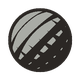
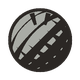
feat(roots): Wave 2 legibility remediation (RA-6, RA-7, RA-8)
- RA-6: a permanent, quiet resting ring per orb (var(--anchor), 1px, 0.28,
  radius+4, static) so nodes read as interactive at rest. T94's shipped
  first-timer caption is untouched (it's the one-time teach; this is the
  persistent cue).
- RA-7: colourblind-safe non-colour state channel — an engraved notch baked
  into the orb sprites (understood smooth, attention one cut, changed a
  double-V); greyscale-distinguishable. Asset-only (orb_attention/changed.png).
- RA-8: a quiet domain legend under the tiles (Structure . Scheduling . Time
  . Resources . Context) sourced from DOMAIN_LABELS, so the map is learnable
  without per-orb hover.

Verified live: legend + rings read at real scale, calm preserved.

Changed region(s): [[0.35, 0.15, 0.475, 0.325], [0.55, 0.15, 0.65, 0.325]]

diff --git a/src/components/reconciliation/RootMap.test.jsx b/src/components/reconciliation/RootMap.test.jsx
@@ -2,6 +2,7 @@
 import { describe, it, expect, afterEach, beforeEach, vi } from 'vitest'
 import { render, screen, fireEvent, act } from '@testing-library/react'
 import RootMap from './RootMap.jsx'
+import { DOMAIN_LABELS } from './domainRollup.js'
 
 // Design-polish finding 3: the canvas node must show a visible caption
 // (not just aria-label) when selected — asserted via a selected node so
@@ -38,6 +39,46 @@ describe('RootMap node label', () => {
       />,
     )
     expect(screen.getByText('Resources')).toBeTruthy()
+  })
+})
+
+// RA-6: a quiet always-on resting ring on every orb (interactive affordance
+// at rest, independent of hover/selection state).
+describe('RootMap resting interactivity ring (RA-6)', () => {
+  it('renders an always-on ring per node', () => {
+    const { container } = render(
+      <RootMap
+        model={model()}
+        selection={{ type: 'none' }}
+        onSelectTile={noop}
+        onSelectNode={noop}
+        onClearSelection={noop}
+      />,
+    )
+    const rings = [...container.querySelectorAll('circle[stroke="var(--anchor)"]')]
+    // one domain node + one child node in `model()`
+    expect(rings).toHaveLength(2)
+    for (const ring of rings) {
+      expect(ring.getAttribute('fill')).toBe('none')
+      expect(ring.getAttribute('opacity')).toBe('0.28')
+    }
+  })
+})
+
+// RA-8: static self-describing domain legend beneath the tile row.
+describe('RootMap domain legend (RA-8)', () => {
+  it('renders the five domain labels in canvas order, joined by middot', () => {
+    render(
+      <RootMap
+        model={model()}
+        selection={{ type: 'none' }}
+        onSelectTile={noop}
+        onSelectNode={noop}
+        onClearSelection={noop}
+      />,
+    )
+    const expected = Object.values(DOMAIN_LABELS).join(' · ')
+    expect(screen.getByText(expected)).toBeTruthy()
   })
 })
 

diff --git a/src/components/reconciliation/RootMap.jsx b/src/components/reconciliation/RootMap.jsx
@@ -152,6 +152,11 @@ function Node({ x, y, width, height, state, label, selected, onSelect, radius })
         strokeWidth={1.5}
         opacity={0.45}
       />
+      {/* RA-6: a quiet always-on ring so every orb reads as interactive at
+          rest, independent of hover/selection state (which lights the glow
+          above). No fill, no animation — it must never compete with the
+          hover/selection glow that sits above it in paint order. */}
+      <circle cx={cx} cy={cy} r={r + 4} fill="none" stroke="var(--anchor)" strokeWidth={1} opacity={0.28} />
       <circle
         cx={cx}
         cy={cy}
@@ -294,6 +299,13 @@ export default function RootMap({ model, selection, onSelectTile, onSelectNode, 
         })}
       </div>
 
+      {/* RA-8: static self-describing legend, canvas domain order left→right,
+          sourced live from DOMAIN_LABELS so it can never drift from the
+          canvas's own labels. Quiet by design — no motion, no interaction. */}
+      <div style={styles.legend}>
+        {Object.values(DOMAIN_LABELS).join(' · ')}
+      </div>
+
       <div style={styles.canvasWrap}>
         <img src={rootMapArt} alt="" style={styles.art} />
         <svg viewBox={`0 0 ${width} ${height}`} style={styles.svg} role="img" aria-label="The root system — what Shoresh took in.">
@@ -364,6 +376,12 @@ const styles = {
   },
   tileActive: {
     borderWidth: 2,
+  },
+  legend: {
+    fontSize: 12,
+    color: 'var(--text-secondary)',
+    fontFamily: 'var(--font-sans)',
+    marginBottom: 8,
   },
   canvasWrap: {
     position: 'relative',

diff --git a/docs/work/specs/2026-08-20-roots-audit-remediation.md b/docs/work/specs/2026-08-20-roots-audit-remediation.md
@@ -99,7 +99,7 @@ engraving craft, the trunk-holds-the-dashboard metaphor, the honest empty-state 
 - After: give resting orbs a permanent, quiet affordance (a hairline ring, a 1px lift, or a consistent cursor+outline) AND a one-time first-visit coach cue ("these are clickable"). **Reconcile with T94** (roots first-timer orientation caption) so we ship one coherent cue, not two.
 - Why: on a home surface a director may never learn the roots are the interface.
 - Acceptance: nodes signal interactivity at rest without adding visual noise at the all-understood default; first-visit cue shows once and is dismissible; no duplication with T94.
-- Recommendation: a single hairline resting ring in `--anchor` at low opacity + reuse the T94 caption as the first-visit cue (don't invent a second coach mark).
+- **Wave 2 design (locked):** T94's first-timer caption is ALREADY SHIPPED (ReconciliationScreen.jsx + tests) — it stays as the one-time teaching cue. RA-6 adds only the *permanent* at-rest affordance: a resting `<circle>` per orb, `stroke: var(--anchor)`, `strokeWidth 1`, `opacity 0.28`, radius = orb-radius + 4, static (no motion). Do NOT touch T94.
 
 **RA-7 — Non-colour second channel for state.** *(Impeccable I3)*
 - Before: understood/attention/changed filled orbs differ only by hue; absent/not_set_up differ by shape.
